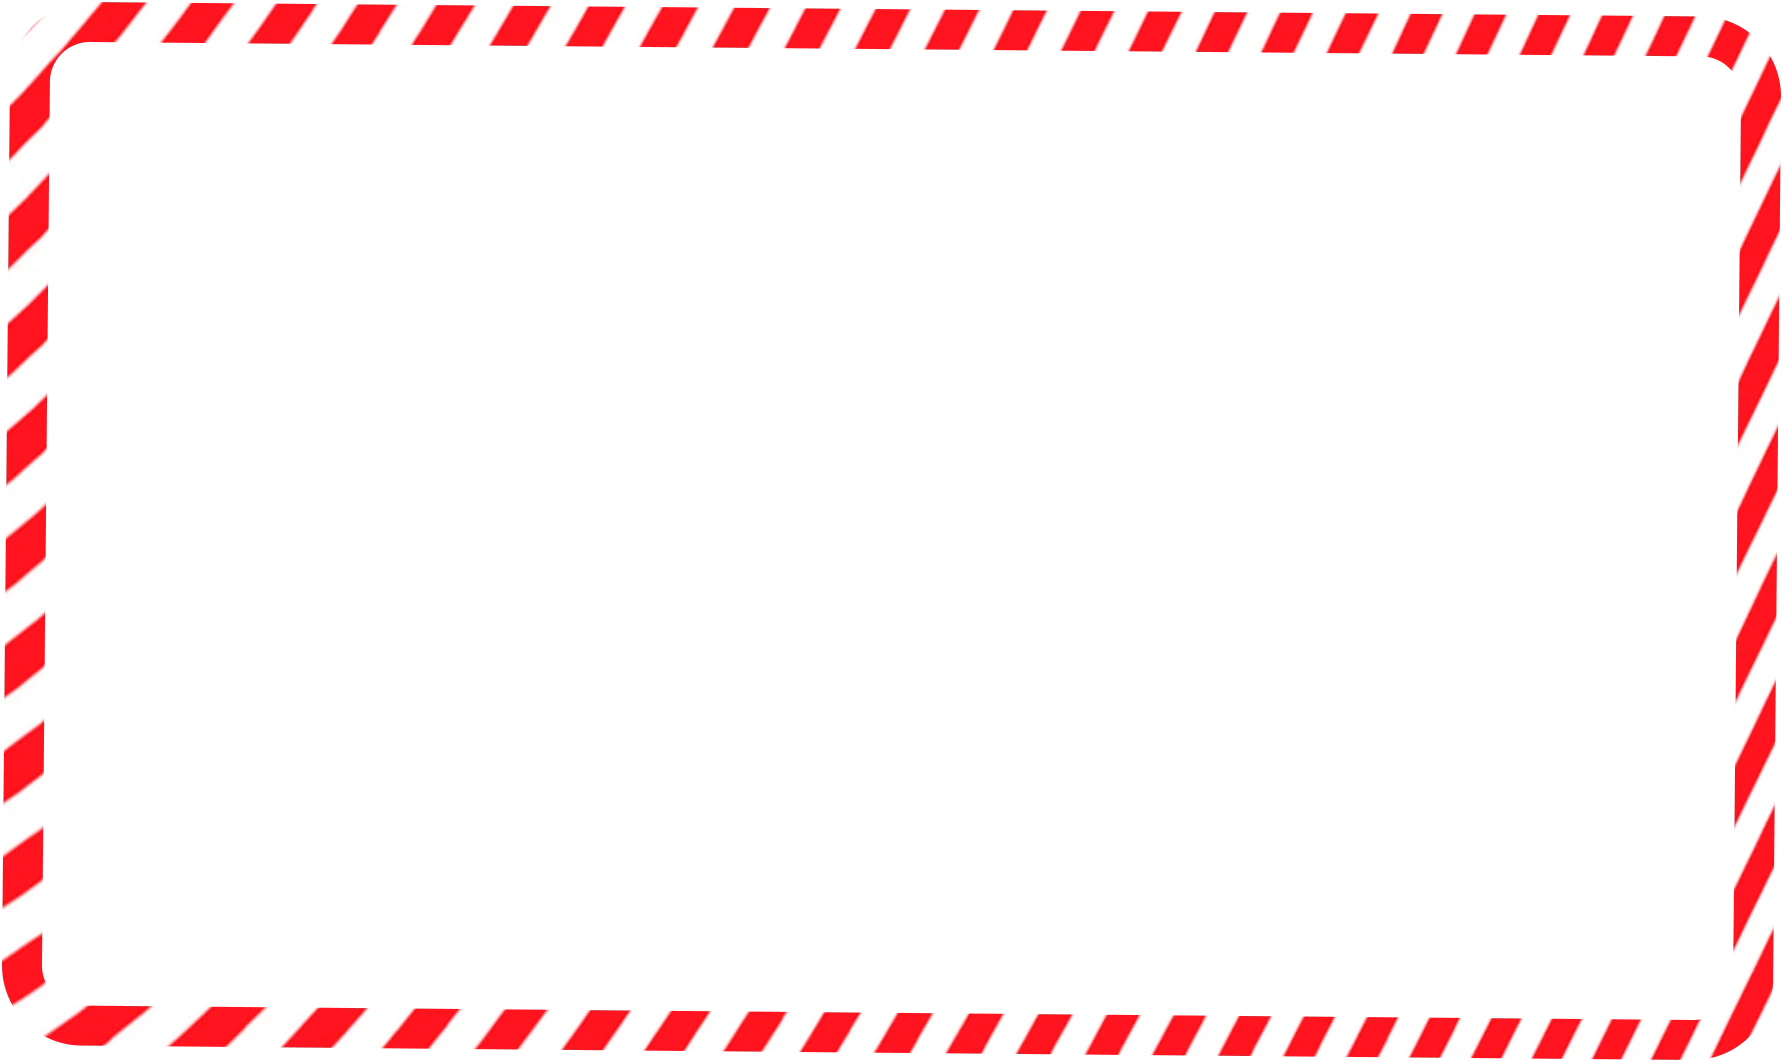
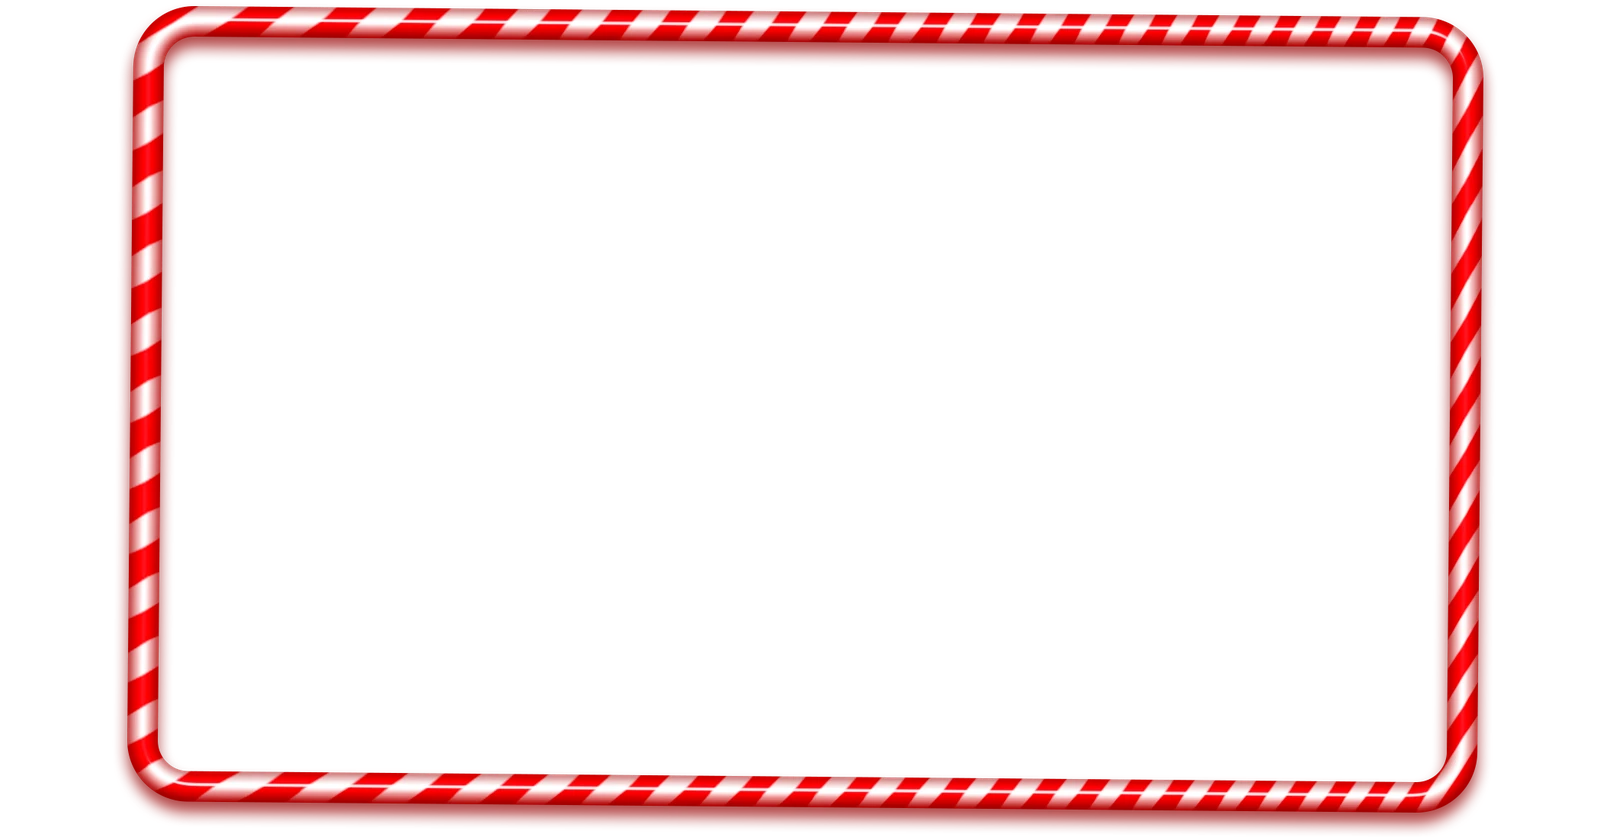
Экран 13: настоящая карамельная рамка из PSD
Прежнюю рамку собирал скриптом из слоя-фигуры, и она вышла плоской:
объём, блик и тень фотошоп рисует эффектами слоя, а скрипт их не отдаёт.
Серёга выгрузил рамку сам. Заодно блок теперь совпадает с холстом макета
2099x1098, конфеты живут в его полях и запас под их вылет больше не нужен.

diff --git a/v2.html b/v2.html
@@ -3677,13 +3677,12 @@ html.zs-lock .nav{margin-right:var(--zs-sbw,0px)}
    бы заодно каждую летающую конфету со своей вшитой тенью — тень поехала бы
    вместе с ними. */
 .mk{
-  /* Ширина рамки — единственный размер экрана. Потолок 1160 px, а на узких
-     окнах её ограничивает ВЫЛЕТ КОНФЕТ: левая уходит за рамку на 9,25 %
-     её ширины, правая на 7,12 %, и без запаса край окна срезал бы их
-     (проверено на 500, 768, 1024 и 1280 — резало на 4-22 px). Отсюда
-     делитель 1,24: половина рамки плюс вылет должны уместиться в половину
-     окна, плюс запас на полосу прокрутки, которую 100vw не учитывает. */
-  --mk-w: min(1160px, calc((100vw - 10px) / 1.24));
+  /* Ширина ХОЛСТА — единственный размер экрана. Холст это весь макет Серёги
+     2099x1098: рамка занимает в нём 1778 px по ширине, а по краям остаются
+     поля, в которых висят конфеты. Поэтому вылетать за блок нечему и запас
+     под конфеты больше не нужен. Видимая рамка = 84,7 % холста: при 1340
+     это те же 1135 px, что были у прежней рамки. */
+  --mk-w: min(1340px, 100%);
   --mk-arw: clamp(44px, 4.4vw, 62px);
   --mk-fl: 12%;                   /* размах полёта конфет, доля их высоты */
   background:#FFE2EA; position:relative; z-index:25; overflow-x:clip;
@@ -3698,11 +3697,10 @@ html.zs-lock .nav{margin-right:var(--zs-sbw,0px)}
 .mk-gap2{height:calc(52 * var(--u))}
 
 .mk-slider{position:relative; width:var(--mk-w); margin-inline:auto}
-.mk-box{position:relative; aspect-ratio:1783 / 1061}
+.mk-box{position:relative; aspect-ratio:2099 / 1098}
 .mk-view{
-  position:absolute; left:2.0191%; top:1.9793%; width:96.0179%; height:96.0415%;
-  border-radius:3.2% / 5.4%; overflow:hidden; background:#F6D2DA;
-  box-shadow:0 16px 34px rgba(140,27,18,.20);
+  position:absolute; left:9.5760%; top:2.4590%; width:81.5627%; height:92.8051%;
+  border-radius:3.5% / 5.9%; overflow:hidden; background:#F6D2DA;
   touch-action:pan-y; cursor:grab;
 }
 .mk-view:active{cursor:grabbing}
@@ -3716,8 +3714,8 @@ html.zs-lock .nav{margin-right:var(--zs-sbw,0px)}
    применяет их как стиль, и без этой строки конфета остаётся 318 px высотой
    при ширине в 48: на телефоне обе конфеты вытягивались в полосы во весь экран. */
 .mk-candy{position:absolute; z-index:3; height:auto; pointer-events:none; animation:mk-float 4.4s ease-in-out infinite}
-.mk-candy--a{left:-9.2541%; top:14.9859%; width:17.3864%}
-.mk-candy--b{left:90.4094%; top:63.9962%; width:16.7134%; animation-duration:5.6s; animation-delay:-1.9s}
+.mk-candy--a{left:0%; top:15.0273%; width:14.7689%}
+.mk-candy--b{left:84.6594%; top:62.3862%; width:14.1972%; animation-duration:5.6s; animation-delay:-1.9s}
 @keyframes mk-float{
   0%,100%{transform:translateY(calc(var(--mk-fl) * -1))}
   50%    {transform:translateY(var(--mk-fl))}
@@ -3740,8 +3738,8 @@ html.zs-lock .nav{margin-right:var(--zs-sbw,0px)}
   transition:transform .18s ease, box-shadow .18s ease, opacity .2s ease;
 }
 .mk-arw svg{width:34%; height:34%; fill:none; stroke:#8C1B12; stroke-width:3.4; stroke-linecap:round; stroke-linejoin:round}
-.mk-arw--prev{left:-5.8%}
-.mk-arw--next{right:-5.8%}
+.mk-arw--prev{left:0.8%}
+.mk-arw--next{right:0.8%}
 .mk-arw[disabled]{opacity:.3; cursor:default}
 .mk-arw:focus-visible{outline:3px solid #8C1B12; outline-offset:3px}
 @media (hover:hover) and (pointer:fine){
@@ -3761,9 +3759,7 @@ html.zs-lock .nav{margin-right:var(--zs-sbw,0px)}
   /* Общий `.cr-cont` ниже 768 px идёт без полей — здесь они обязательны:
      в них помещается вылет летающих конфет (см. шапку блока). */
   .mk .cr-cont{padding-inline:16px}
-  /* На телефоне конфеты уведены ближе к рамке (вылет 4,2 %), поэтому и запас
-     нужен меньший — иначе рамка худела бы зря на и без того узком экране. */
-  .mk{padding:36px 0 42px; --mk-arw:36px; --mk-w:min(100%, calc((100vw - 10px) / 1.10))}
+  .mk{padding:36px 0 42px; --mk-arw:36px}
   /* Заголовок на телефоне мельче общих 13 px: строка «ВОТ КАКИЕ КРАСИВЫЕ
      ЛЕДЕНЦЫ» при 39 px готовой строки ломается на три и вместе со второй
      половиной съедает пол-экрана — на фотографию, ради которой экран
@@ -3773,10 +3769,9 @@ html.zs-lock .nav{margin-right:var(--zs-sbw,0px)}
   .mk-gap1{height:12px}
   .mk-gap2{height:24px}
   .mk-br{display:none}
-  .mk-candy--a{left:-4.2%; width:12.4%}
-  .mk-candy--b{left:92.4%; width:11.8%}
-  .mk-arw--prev{left:2.6%}
-  .mk-arw--next{right:2.6%}
+  .mk .cr-cont{padding-inline:8px}
+  .mk-arw--prev{left:1.4%}
+  .mk-arw--next{right:1.4%}
   .mk-dots{gap:7px; margin-top:16px}
   .mk-dot{width:8px; height:8px}
   .mk-dot.is-on{width:26px}
@@ -4873,7 +4868,7 @@ html.zs-lock .nav{margin-right:var(--zs-sbw,0px)}
           </div>
         </div>
 
-        <img class="mk-frame" src="mk/frame.webp?v=1" width="1783" height="1061" alt="" aria-hidden="true" decoding="async">
+        <img class="mk-frame" src="mk/frame.webp?v=2" width="2099" height="1098" alt="" aria-hidden="true" decoding="async">
         <img class="mk-candy mk-candy--a" src="mk/candy-a.webp?v=1" width="310" height="318" alt="" aria-hidden="true" decoding="async">
         <img class="mk-candy mk-candy--b" src="mk/candy-b.webp?v=1" width="298" height="312" alt="" aria-hidden="true" decoding="async">
 
